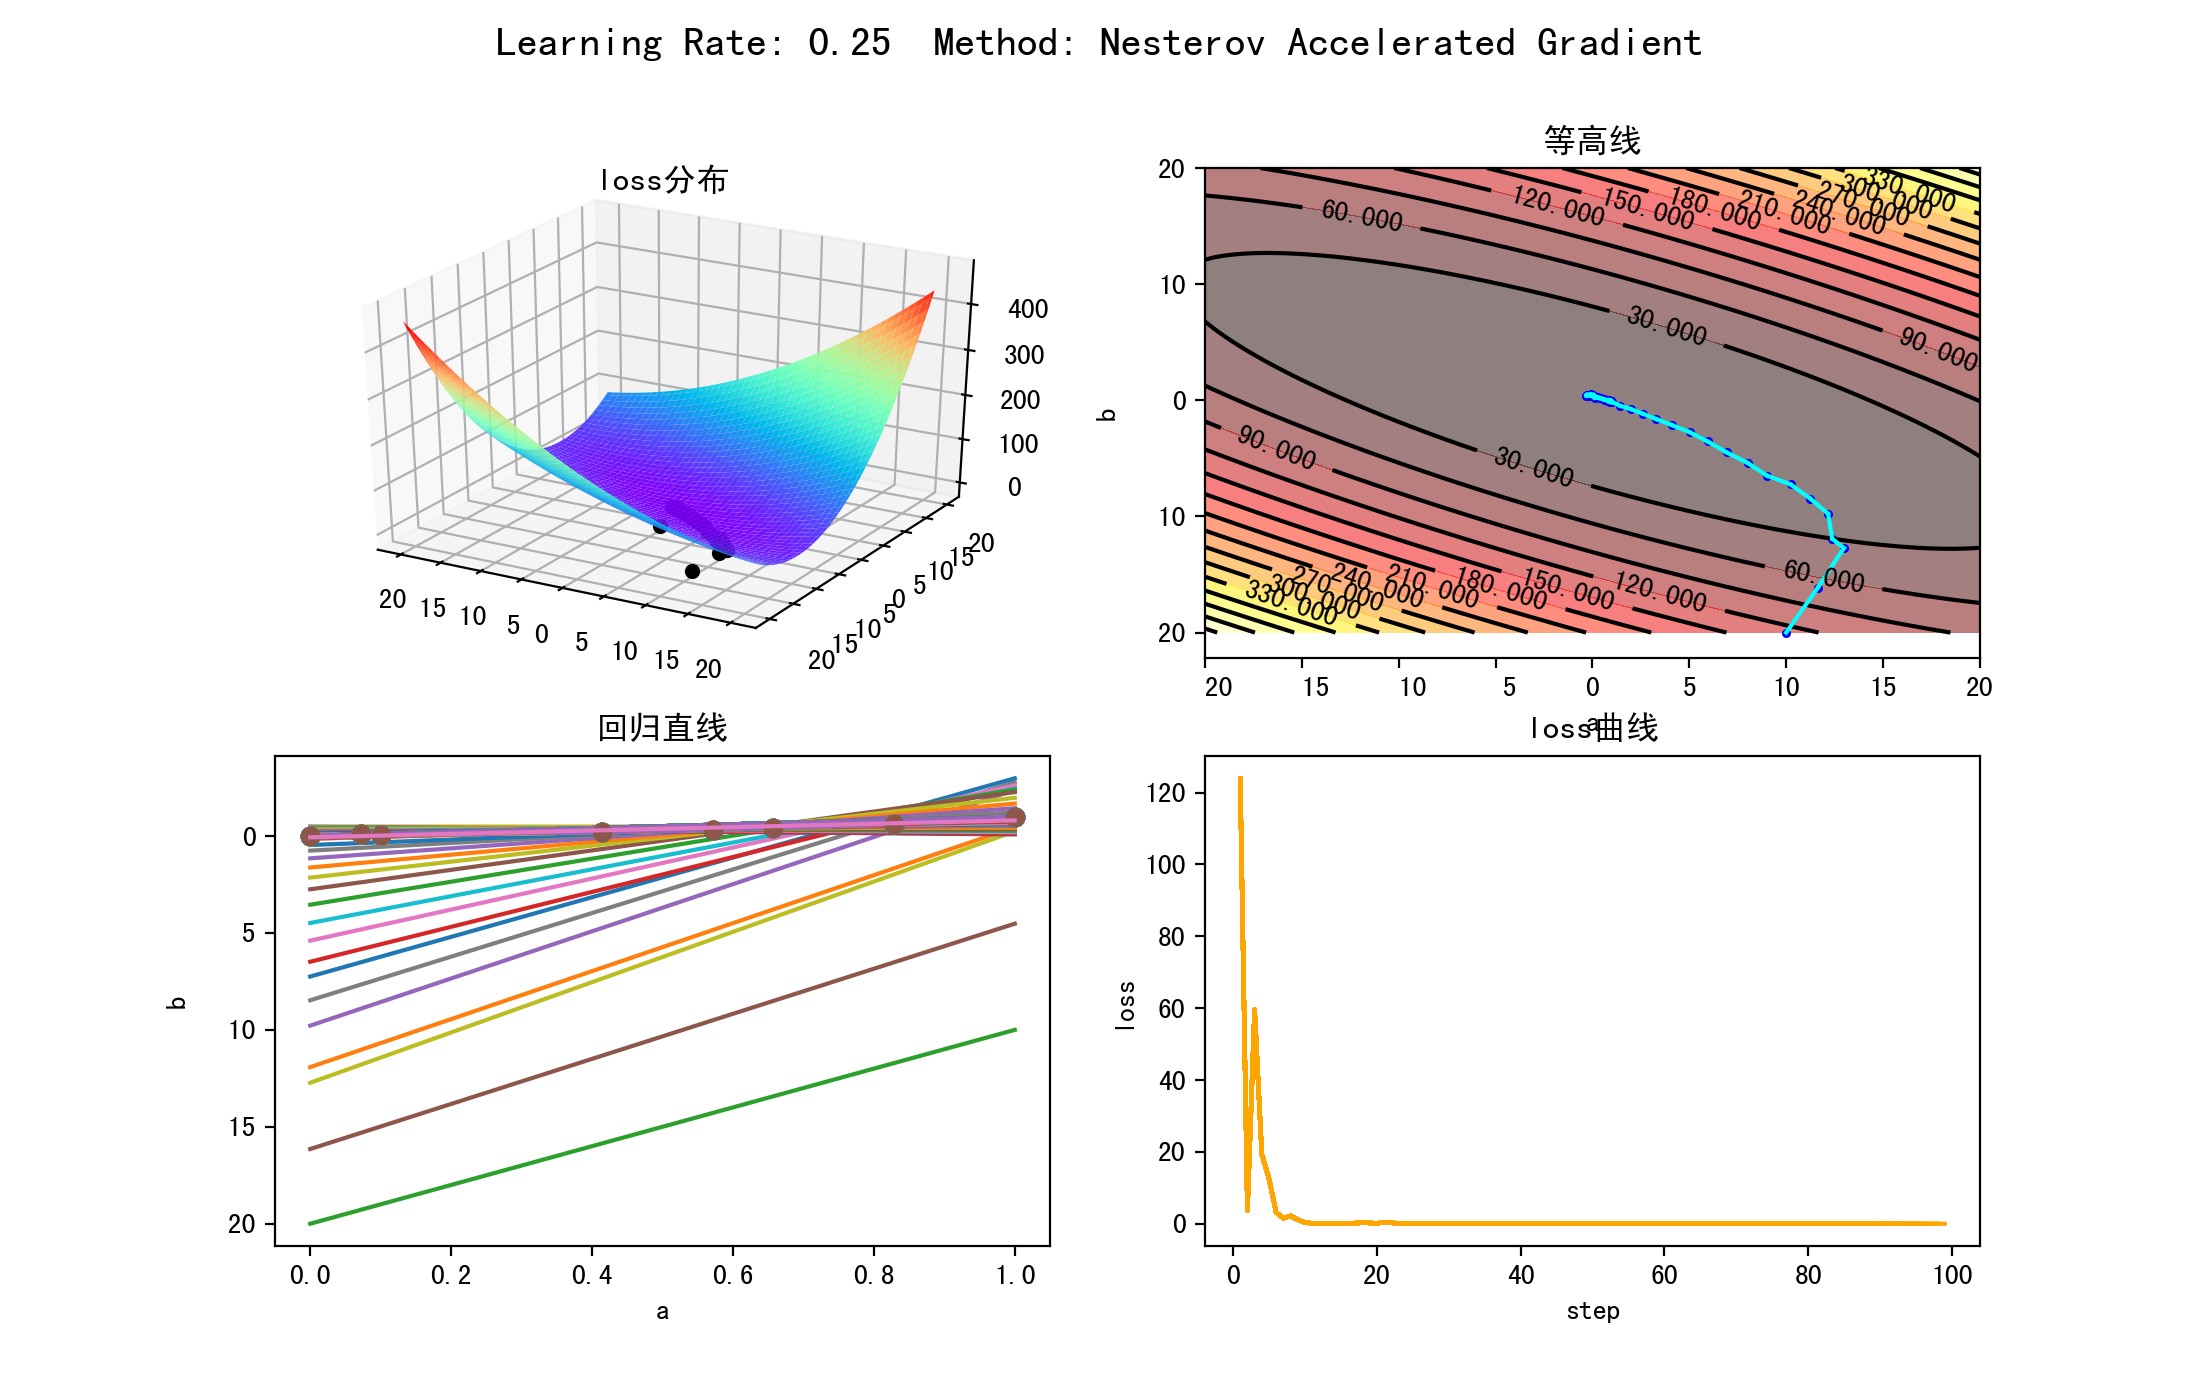
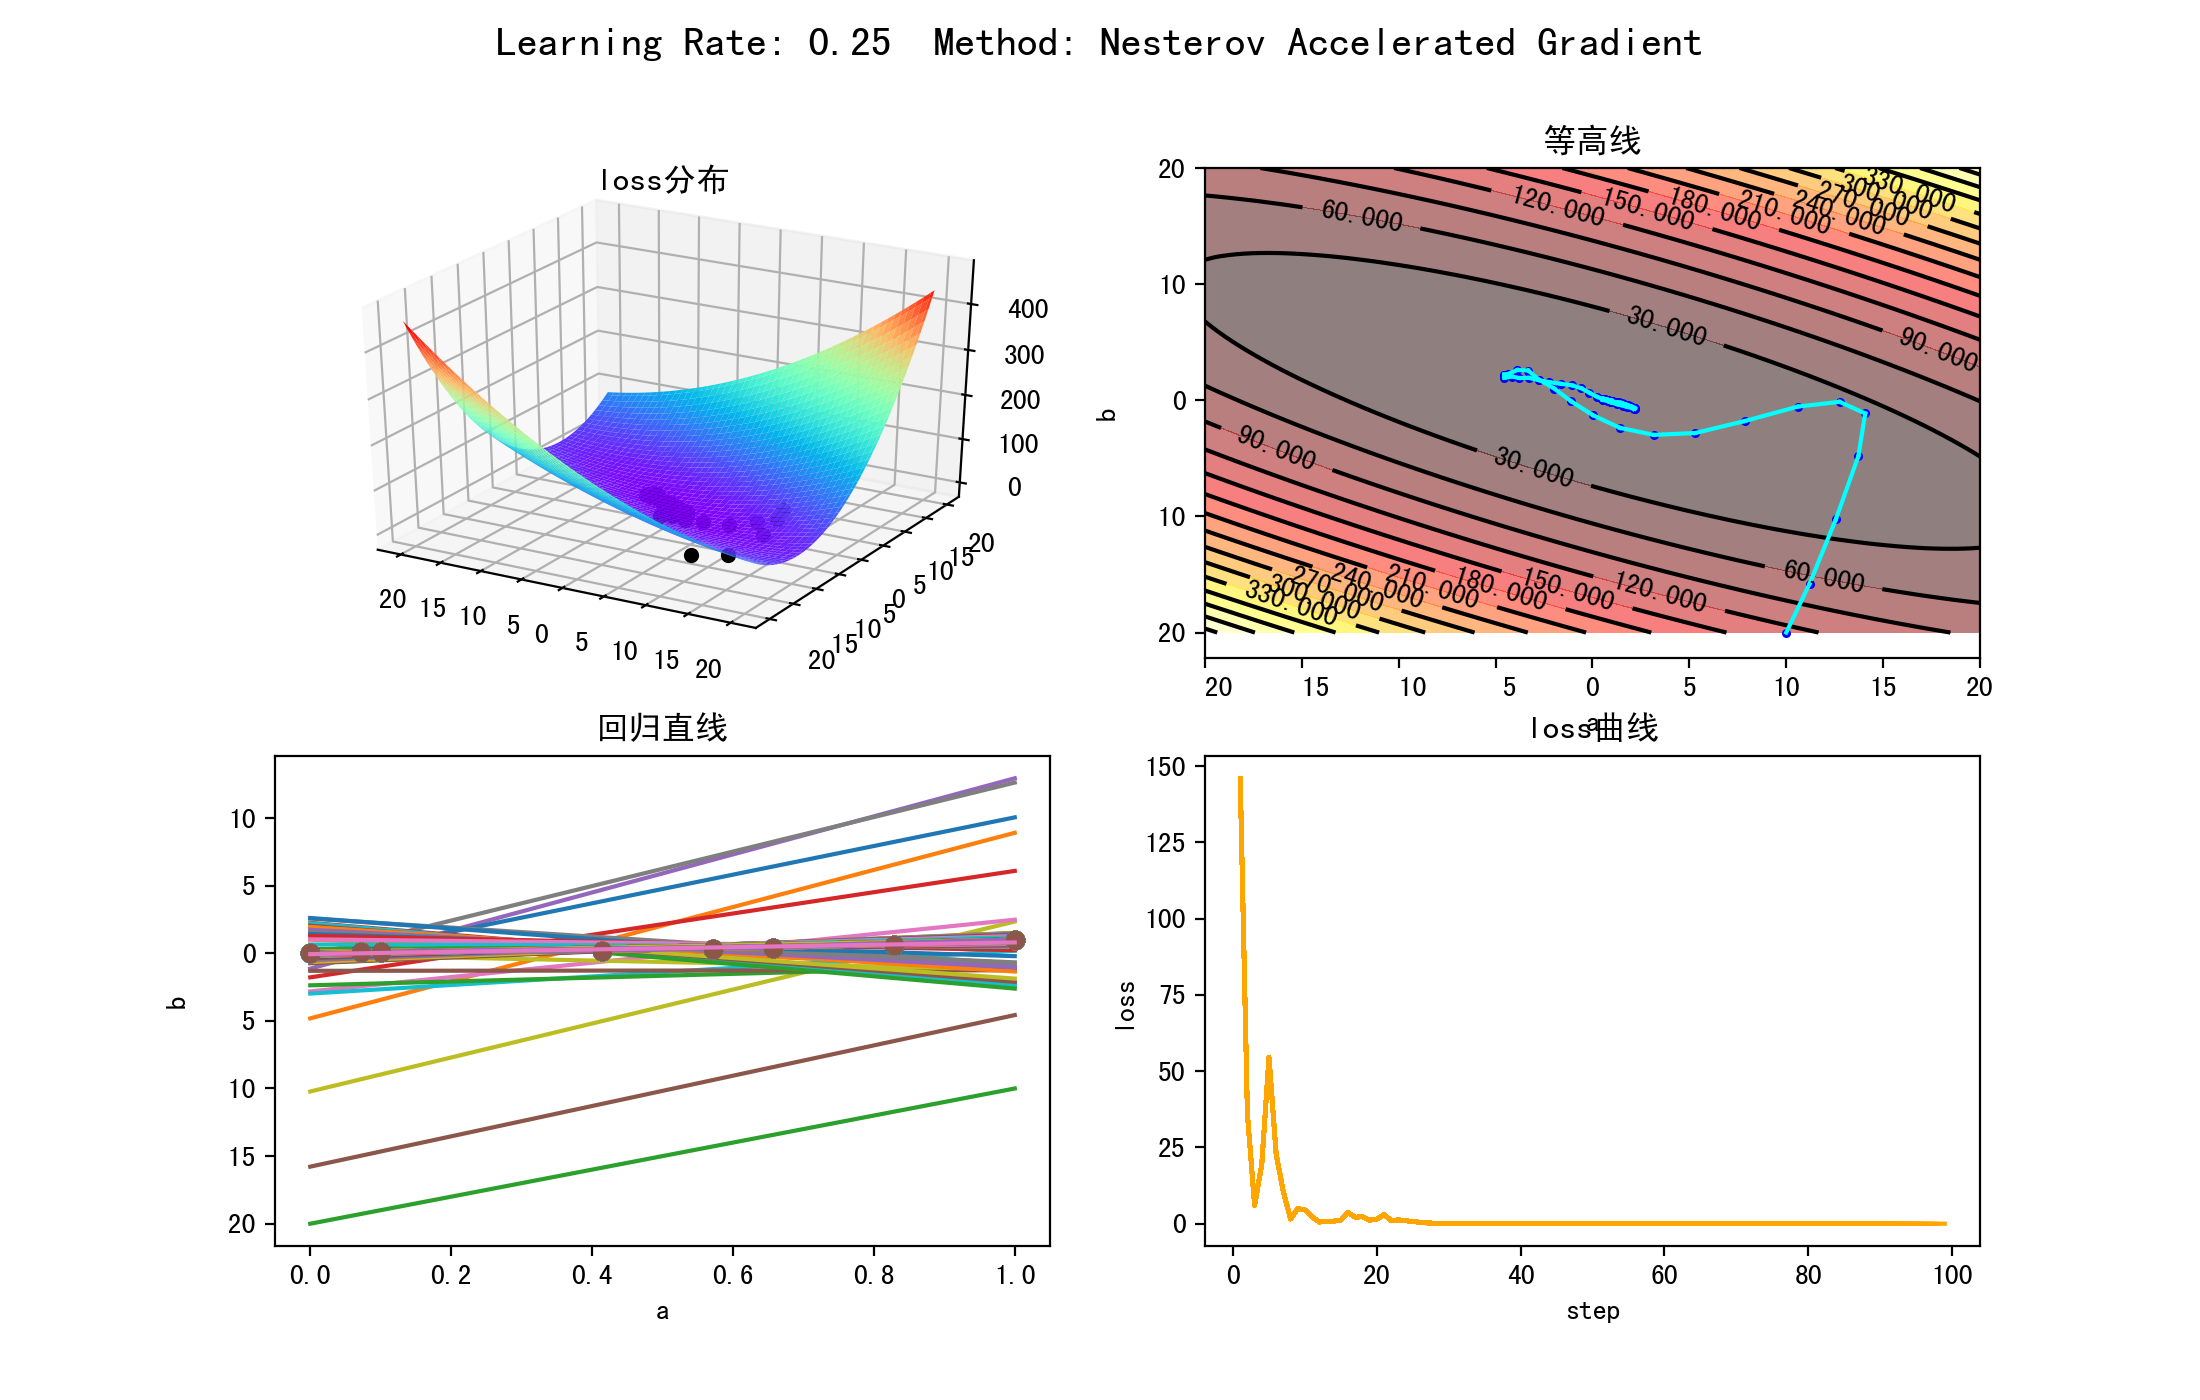
add momentum and NAG

diff --git a/6_NAG.py b/6_NAG.py
@@ -44,8 +44,8 @@ if __name__ == '__main__':
         loss = 0
         all_da = 0
         all_db = 0
-        a_ahead = a - gamma*va
-        b_ahead = b - gamma*vb
+        a_ahead = a + gamma*va
+        b_ahead = b + gamma*vb
         [x_new,y_new] = get_batch_data(x,y,batch=4)
         for i in range(0,len(x_new)):
             y_p = a_ahead*x_new[i] + b_ahead
@@ -69,10 +69,10 @@ if __name__ == '__main__':
         last_a = a
         last_b = b
 
-        va = gamma*va + all_da
-        vb = gamma*vb + all_db
-        a = a - rate*va
-        b = b - rate*vb
+        va = gamma*va - rate*all_da
+        vb = gamma*vb - rate*all_db
+        a = a + va
+        b = b + vb
 
         if step%1 == 0:
             print("step: ", step, " loss: ", loss)

diff --git a/5_momentum.py b/5_momentum.py
@@ -72,10 +72,11 @@ if __name__ == '__main__':
         a = a - va
         b = b - vb
         '''
-        va = gamma*va + all_da
-        vb = gamma*vb + all_db
-        a = a - rate*va
-        b = b - rate*vb
+        va = gamma*va - rate*all_da
+        vb = gamma*vb - rate*all_db
+        a = a + va
+        b = b + vb
+
         if step%1 == 0:
             print("step: ", step, " loss: ", loss)
             plt.show()

diff --git a/README.md b/README.md
@@ -1,7 +1,12 @@
 # 机器学习优化函数
 > 注：如需正常显示公式，请在chrome浏览器中安装 [Github with MathJax](https://chrome.google.com/webstore/detail/github-with-mathjax/ioemnmodlmafdkllaclgeombjnmnbima) 插件
 
-[TOC]
+* [1、线性回归](#1线性回归)
+* [2、梯度下降](#2梯度下降)
+* [3、随机梯度下降（SGD）](#3随机梯度下降sgd)
+* [4、小批量随机梯度下降（minibath SGD）](#4小批量随机梯度下降minibath-sgd)
+* [5、动量法（momentum）](#5动量法momentum)
+* [6、Nesterov accelerated gradient (NAG)](#6nesterov-accelerated-gradient-nag)
 
 ## 1、线性回归
 
@@ -170,38 +175,38 @@ $$\frac{\partial loss_{batch}}{\partial b}=\frac{1}{k}\sum_{i=1}^k(ax_i+b-y_i)$$
 
 SGD 在遇到沟壑时容易陷入震荡。为此，可以为其引入动量 Momentum，加速 SGD 在正确方向的下降并抑制震荡。
 
-![sgd-m](pic/5-sgd-m.jpeg)
-
-如上图所示，A为起始点，首先计算A点的梯度∇a ，然后下降到B点，在原步长之上，增加了与上一时刻步长相关的`γ`，`γ`通常取 0.9 左右。这意味着参数更新方向不仅由当前的梯度决定，也与此前累积的下降方向有关。这使得参数中那些梯度方向变化不大的维度可以加速更新，并减少梯度方向变化较大的维度上的更新幅度。由此产生了加速收敛和减小震荡的效果。
-
-当我们将一个小球从山上滚下来时，没有阻力的话，它的动量会越来越大，但是如果遇到了阻力，速度就会变小。 
-加入的这一项，可以使得梯度方向不变的维度上速度变快，梯度方向有所改变的维度上的更新速度变慢，这样就可以加快收敛并减小震荡。
-
-缺点：这种情况相当于小球从山上滚下来时是在盲目地沿着坡滚，如果它能具备一些先知，例如快要上坡时，就知道需要减速了的话，适应性会更好。
+参数更新方向不仅由当前的梯度决定，也与此前累积的下降方向有关。这使得参数中那些梯度方向变化不大的维度可以加速更新，并减少梯度方向变化较大的维度上的更新幅度。由此产生了加速收敛和减小震荡的效果。
 
 ### 公式
 
-B点的参数更新公式：
+参数更新公式：
 
-$$v_t = \gamma v_{t-1} + \alpha \nabla b$$
+$$v_t = \gamma v_{t-1} + \eta \nabla_\theta J( \theta) \\$$ 
+$$\theta = \theta - v_t$$
 
-其中 Vt−1 表示之前所有步骤所累积的动量和。
+> Note: Some implementations exchange the signs in the equations. The momentum term γ is usually set to 0.9 or a similar value.
 
-参数更新同梯度下降。
+很多实现只是等式符号不同，我这里用的是上减下加。如下伪代码：
+
+```
+# Momentum update
+v = mu * v - learning_rate * dx # integrate velocity
+x += v # integrate position
+```
 
 ### 实验
 
 ```
 ▶ python 5_momentum.py
-('step: ', 1, ' loss: ', 146.73549720166068)
-('step: ', 2, ' loss: ', 87.415102431214322)
-('step: ', 3, ' loss: ', 16.702090489396895)
-('step: ', 4, ' loss: ', 31.977555057448985)
-('step: ', 5, ' loss: ', 21.190126419240112)
+('step: ', 1, ' loss: ', 142.78026539628002)
+('step: ', 2, ' loss: ', 57.026908010941987)
+('step: ', 3, ' loss: ', 14.878695379467619)
+('step: ', 4, ' loss: ', 27.956646187512142)
+('step: ', 5, ' loss: ', 76.121314278701405)
 ...
-('step: ', 97, ' loss: ', 0.032100060863960431)
-('step: ', 98, ' loss: ', 0.016148515230792779)
-('step: ', 99, ' loss: ', 0.046971139791802639)
+('step: ', 97, ' loss: ', 0.0050963082785009679)
+('step: ', 98, ' loss: ', 0.0025215223884579186)
+('step: ', 99, ' loss: ', 0.0260781190424971)
 ```
 
  结果图片：
@@ -214,40 +219,58 @@ $$v_t = \gamma v_{t-1} + \alpha \nabla b$$
 
 ## 6、Nesterov accelerated gradient (NAG)
 
-仅仅有一个追求速度的球往山下滚是不能令人满意的，我们需要一个球，它能知道往前一步的信息，并且当山坡再次变陡时他能够减速。因此，带有nesterov的出现了！
+该方法与动量类似，也是考虑最近的梯度情况，但是NAG相对超前一点，使用动量计算参数下一个位置的近似值，然后在这近似值位置上计算梯度。
 
-![1](pic/6-NAG-1.jpeg)
-
-![NAG](pic/6-NAG.jpg)
+![6-0](pic/6-NAG.jpg)
 
 在momentum里，先计算当前的梯度（短蓝色线），然后结合以前的梯度执行更新（长蓝色线）。而在nesterov momentum里，先根据事先计算好的梯度更新（棕色），然后在预计的点处计算梯度（红色），结合两者形成真正的更新方向（绿色）。 
 
-这是对之前的Momentum的一种改进,大概思路就是，先对参数进行估计（先往前看一步，探路），然后使用估计后的参数来计算误差 
+再来两张图比较momentum和NAG的区别：
+
+![6-1](pic/momentum-vs-NAG.jpg)
+
+![6-1](pic/momentum-vs-NAG-1.jpg)
+
+图参考：[Nesterov’s Accelerated Gradient, Stochastic Gradient Descent](http://mitliagkas.github.io/ift6085/ift-6085-lecture-6-notes.pdf)
 
 ### 公式
 
+参数更新公式
 
+$$v_t = \gamma v_{t-1} + \eta \nabla_\theta J( \theta - \gamma v_{t-1} ) \\  $$
+$$\theta = \theta - v_t$$
 
-### 实验
+代码中我用的仍然是上减下加。伪代码如下：
+
+```
+x_ahead = x + mu * v
+# evaluate dx_ahead (the gradient at x_ahead instead of at x)
+v = mu * v - learning_rate * dx_ahead
+x += v
+```
+
+###实验
 
 ```
 ▶ python 6_NAG.py
-('step: ', 1, ' loss: ', 123.97588519336801)
-('step: ', 2, ' loss: ', 3.6992921922744024)
-('step: ', 3, ' loss: ', 59.623327324378536)
-('step: ', 4, ' loss: ', 19.32654187645505)
-('step: ', 5, ' loss: ', 12.547054418230081)
+('step: ', 1, ' loss: ', 146.04743572162121)
+('step: ', 2, ' loss: ', 35.977107943103498)
+('step: ', 3, ' loss: ', 6.0189021621300283)
+('step: ', 4, ' loss: ', 19.533286578486837)
+('step: ', 5, ' loss: ', 54.562743141431682)
 ...
-('step: ', 97, ' loss: ', 0.0056560557885627638)
-('step: ', 98, ' loss: ', 0.015449818463141236)
-('step: ', 99, ' loss: ', 0.0069614078409119635)
+('step: ', 97, ' loss: ', 0.0048164795494216803)
+('step: ', 98, ' loss: ', 0.0030005463443346873)
+('step: ', 99, ' loss: ', 0.0086091962512396744)
 ```
 
 结果图片：
 
 ![6-0](pic/NAG.png)
 
-评价：效果非常好，相比较动量法，效果好太多了。因为用到了二阶信息。
+评价：相比较动量法，NAG方法收敛速度明显加快，波动也小了很多。因为NAG考虑了目标函数的二阶导数信息，而梯度下降是一阶收敛。二阶其实相当于考虑了梯度的梯度，所以相对更快。粗略的说，n阶收敛，相当于以n阶的速度逼近一个值。
+
+具体可参看：[比Momentum更快：揭开Nesterov Accelerated Gradient的真面目](https://zhuanlan.zhihu.com/p/22810533)
 
 adagrad.py: adagrad
 
@@ -257,24 +280,12 @@ adam.py: adam
 
 
 
-#### 来源
+**参考资料：**
 
-代码来源于以下博客系列文章，稍作改动和重构
+http://ruder.io/optimizing-gradient-descent/index.html
 
-http://blog.csdn.net/column/details/19920.html
+http://cs231n.github.io/neural-networks-3/
 
-#### 参考
+https://zhuanlan.zhihu.com/p/22252270
 
-p1 参考 https://zhuanlan.zhihu.com/p/27297638
-
-p2~pn 参考 http://ruder.io/optimizing-gradient-descent/index.html
-
-###### 单独参考
-
-p5 参考 http://cs231n.github.io/neural-networks-3/
-
-p6 参考 https://zhuanlan.zhihu.com/p/22252270
-
-p7 参考 https://arxiv.org/abs/1212.5701 (原始论文)
-
-p8 参考 http://www.ijiandao.com/2b/baijia/63540.html
+http://www.ijiandao.com/2b/baijia/63540.html
